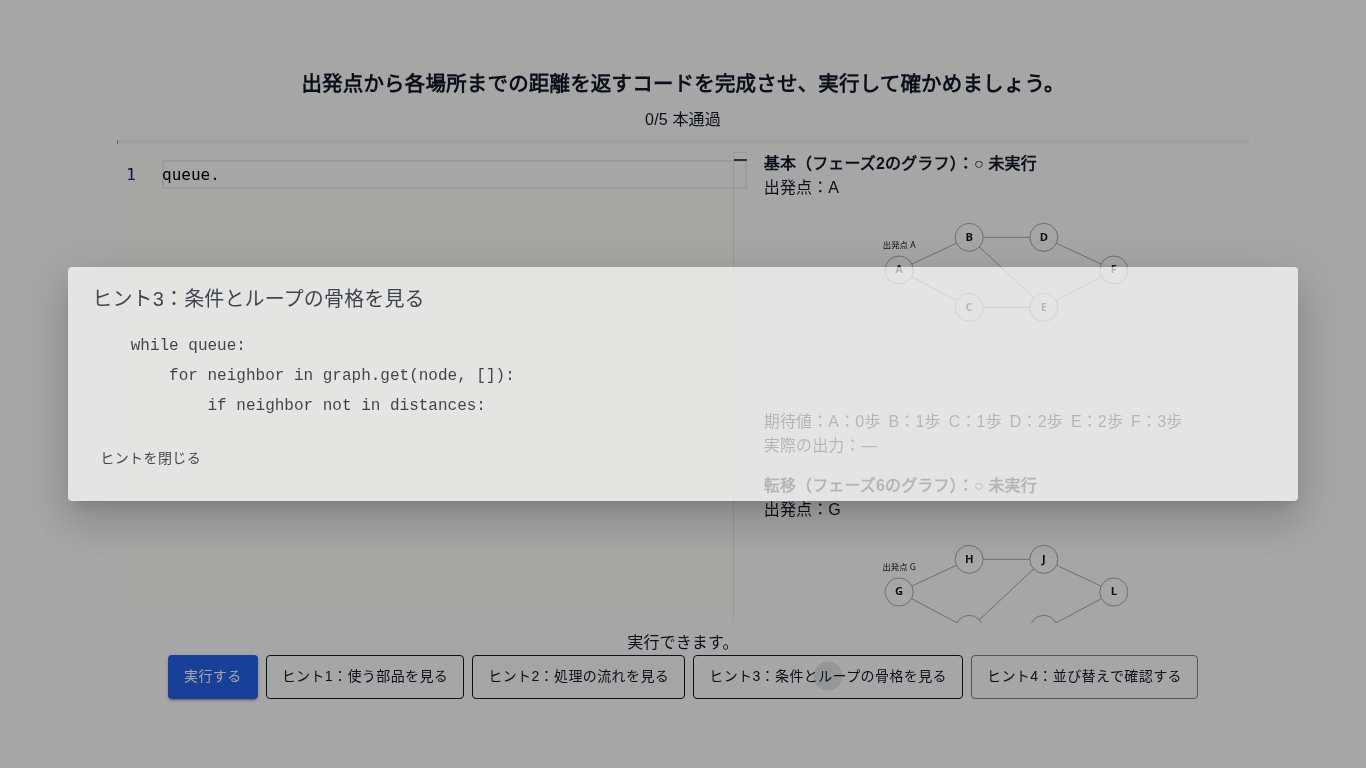
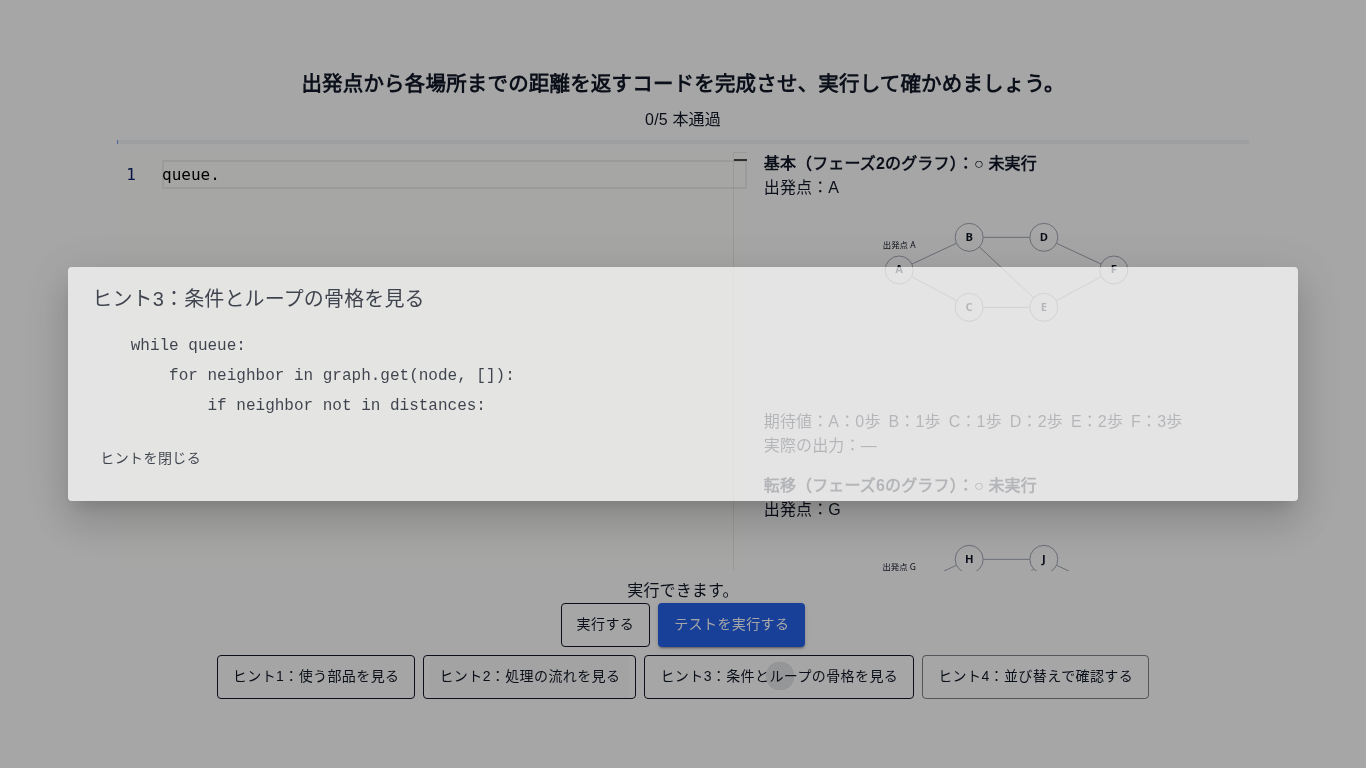
docs: PR100の対応範囲と実行導線を更新し両画面幅の確認画像を撮り直す

Changed region(s): [[0.123, 0.75, 0.8609, 0.9375], [0.7994, 0.75, 0.8302, 0.7812], [0.6457, 0.75, 0.6764, 0.7812]]

diff --git a/front/src/features/learning/bfs/implementation/README.md b/front/src/features/learning/bfs/implementation/README.md
@@ -13,11 +13,11 @@ production buildは`npm run build`後に`node node_modules/next/dist/bin/next st
 クラウドのlocalhostは手元PCから直接開ける共有URLではない。
 
 1. MonacoとPyodideの読込を待つ。dequeのimport・関数定義・コメント・passの骨組みからコードを書く。
-2. 「実行する」で全5ケースを順に実行する。通過数を常時表示し、実行中は現在のn/5件目と「各テストは最大15秒、タイムアウト後も続行」を表示する。
+2. 「テストを実行する」で全5ケースを順に実行する。通過数を常時表示し、実行中は現在のn/5件目と「各テストは最大15秒、タイムアウト後も続行」を表示する。
 3. 結果一覧はラベルとアイコン＋通過／未通過／未実行を表示する。表示用は入力の小さいグラフ・出発点、期待と実際の距離の並びを表示し、値違い・不足・余分な項目を文言と下線で示す。
 4. エラー種別は結果欄へ常時併記する。文法エラー・実行時エラー・タイムアウト・結果不一致を区別し、未実行時は出さない。判定用は種別・合否だけを表示する。
 5. ヒントは1→2→3→4の順に解放し、開くたびにそのレベルの利用回数を増やす。エディタ下の常時チップは置かない。
-6. 全5ケース通過で称号・通過数・実行回数・4レベル別ヒント回数・単元完了文を表示する。実行回数の上限はなく、次フェーズへ接続するボタンはない。
+6. 全5ケース通過で称号・通過数・テスト実行回数・4レベル別ヒント回数・単元完了文を表示する。実行回数の上限はなく、次フェーズへ接続するボタンはない。
 7. 再読込で初期化する。保存・ログ送信はない。
 
 エディタのテーマ・文字サイズ・枠と配置は今回変更しない。84vw × 84dvh、Monacoのlightテーマ、16px。狭い画面は枠内を縦スクロールし、操作は下部に残す。
@@ -73,6 +73,6 @@ npm run verify:bfs-implementation
 新verifyは全5ケースの独立BFSと指定入力、テンプレート、ヒント1の14トークン、骨格3行のIDと参照同一性、4段階の解放・回数、差分実装の不在、既存diff利用の保持、図とテストの一致、距離の値違い・不足・余分、タイムアウト分類・進捗文言、判定用非表示、全通過条件、例外後続・キャンセルを確認する。
 実ブラウザのPython実行と画像・環境制約は実装報告に記載する。
 
-視覚的デバッグはIssue #76で追加した「自分のコードの動きを見る」から利用できる。D1限定のトレース・対応範囲・操作は[trace README](../trace/README.md)を参照する。採点回数・ヒント回数はトレースで変更しない。
+視覚的デバッグはIssue #76／PR #100で追加・修正した「実行する」から利用できる。D1限定のトレース・対応範囲・操作は[trace README](../trace/README.md)を参照する。採点回数・ヒント回数はトレースで変更しない。完了後は「動きを確認する」で再生を開く。
 
 DB適用なし。アプリ組み込み・Mission/Activity・進捗／ログ保存・フェーズ接続・printコンソール・エディタ改善は対象外。

diff --git a/docs/bfs-implementation-75.md b/docs/bfs-implementation-75.md
@@ -5,7 +5,12 @@
 - 起点: `develop` `262cc2b`。レビュー修正の起点: `feat/bfs-implementation-75` `cc93757`。
 - 正本: [PR #99とユーザーレビュー](https://github.com/BeppuKanato/engineer-quest/pull/99)、[Issue #75](https://github.com/BeppuKanato/engineer-quest/issues/75)、[教材指針フェーズ7](concept/learning-materials-guideline.md)、[UI定義](concept/learning-player-ui.md)。詳細は[フェーズ7 README](../front/src/features/learning/bfs/implementation/README.md)。
 
-## 今回の変更
+## PR #100で追随した画面
+
+現在は「実行する」でD1の再生を開き、「テストを実行する」で以下の5件を採点する。全通過リザルトは「テスト実行回数」を表示し、「動きを確認する」で再生を再度開ける。再生はテスト実行回数に含めない。テスト内容・4段階ヒント・編集領域は変更していない。
+この文書の画像も1366×768・390×844で撮り直した。PR #99当時の実装範囲・検証記録は以下に残し、視覚的デバッグの現行仕様・検証は[Issue #76実装報告](bfs-visual-debug-76.md)を参照する。以下のテスト確認手順の「実行」は「テストを実行する」を指す。
+
+## PR #99での変更
 
 テストの見出しから内部IDを除き、ラベルとアイコン＋「通過／未通過／未実行」で表示する。表示用テストの入力JSONを、既存ConsolidationGraphで描く小さいグラフと出発点に置き換えた。D1は正準bfsGraph、D2はフェーズ6のtransferGraphそのものを参照する。描画・座標・色・比率は共通資産に従う。
 期待と実際の距離は「A：0歩」の並びで表示し、値違い・項目不足・余分なキーを文言と下線で識別する。判定用は引き続き種別と合否だけを表示する。
@@ -68,7 +73,7 @@ npm run verify:bfs-implementation
 初回実装と同じく、このクラウドのChromiumはCDNへの直接読込に証明書制約がある。検証時のみ、HTTPS検証して取得した実Pyodide 0.27.7と、既存node_modulesの同一バージョンMonaco 0.54.0を一時ローカル配信し、資産URLだけを差し替える検証用プロキシを使う。Python実行や判定結果はスタブ化しない。
 リポジトリのCDN設定・pyodideRunner・Workerは変更しない。標準CDNからの直接読込は本環境では未確認として区別する。
 
-## PR #99 修正後の確認画像
+## PR #100のボタン構成に追随した確認画像
 
 画像は指定viewportで撮影した全ページ画像。枠内の結果一覧は必要に応じてスクロールしている。
 

diff --git a/docs/README.md b/docs/README.md
@@ -39,8 +39,8 @@
 
 | 文書 | 状態 | 用途 |
 | --- | --- | --- |
-| [bfs-visual-debug-76.md](bfs-visual-debug-76.md) | 記録 | Issue #76 の正準状態比較・D1限定のWorker分離・再生／エラー／最終状態の確認画像 |
-| [bfs-implementation-75.md](bfs-implementation-75.md) | 記録 | Issue #75／PR #99 の結果図示・4段階ヒント・タイムアウト分類、実Pyodideの確認画像と環境制約 |
+| [bfs-visual-debug-76.md](bfs-visual-debug-76.md) | 記録 | Issue #76／PR #100 の型・内容による検出、D1呼び出し分離、部分再生、実行／テスト導線と確認画像 |
+| [bfs-implementation-75.md](bfs-implementation-75.md) | 記録 | Issue #75／PR #99 の結果図示・4段階ヒント・タイムアウト分類、PR #100のボタン構成に追随した実Pyodide確認画像 |
 | [bfs-code-check-73.md](bfs-code-check-73.md) | 記録 | Issue #73 の穴埋め2問、共通基盤の再利用、構文・再挑戦・復習の検証と確認画像 |
 | [bfs-consolidation-74.md](bfs-consolidation-74.md) | 記録 | Issue #74 の5問と初回診断、PR #96 の図サイズ・Parsonsドラッグ／初期化行交換の修正、独立BFS検証と確認画像 |
 | [bfs-parsons-single-list-97.md](bfs-parsons-single-list-97.md) | 記録 | Issue #97 の Parsons 盤面の1リスト直接並び替え化（2リスト方式からの再設計、実行確認は #76 と合わせて判断） |
